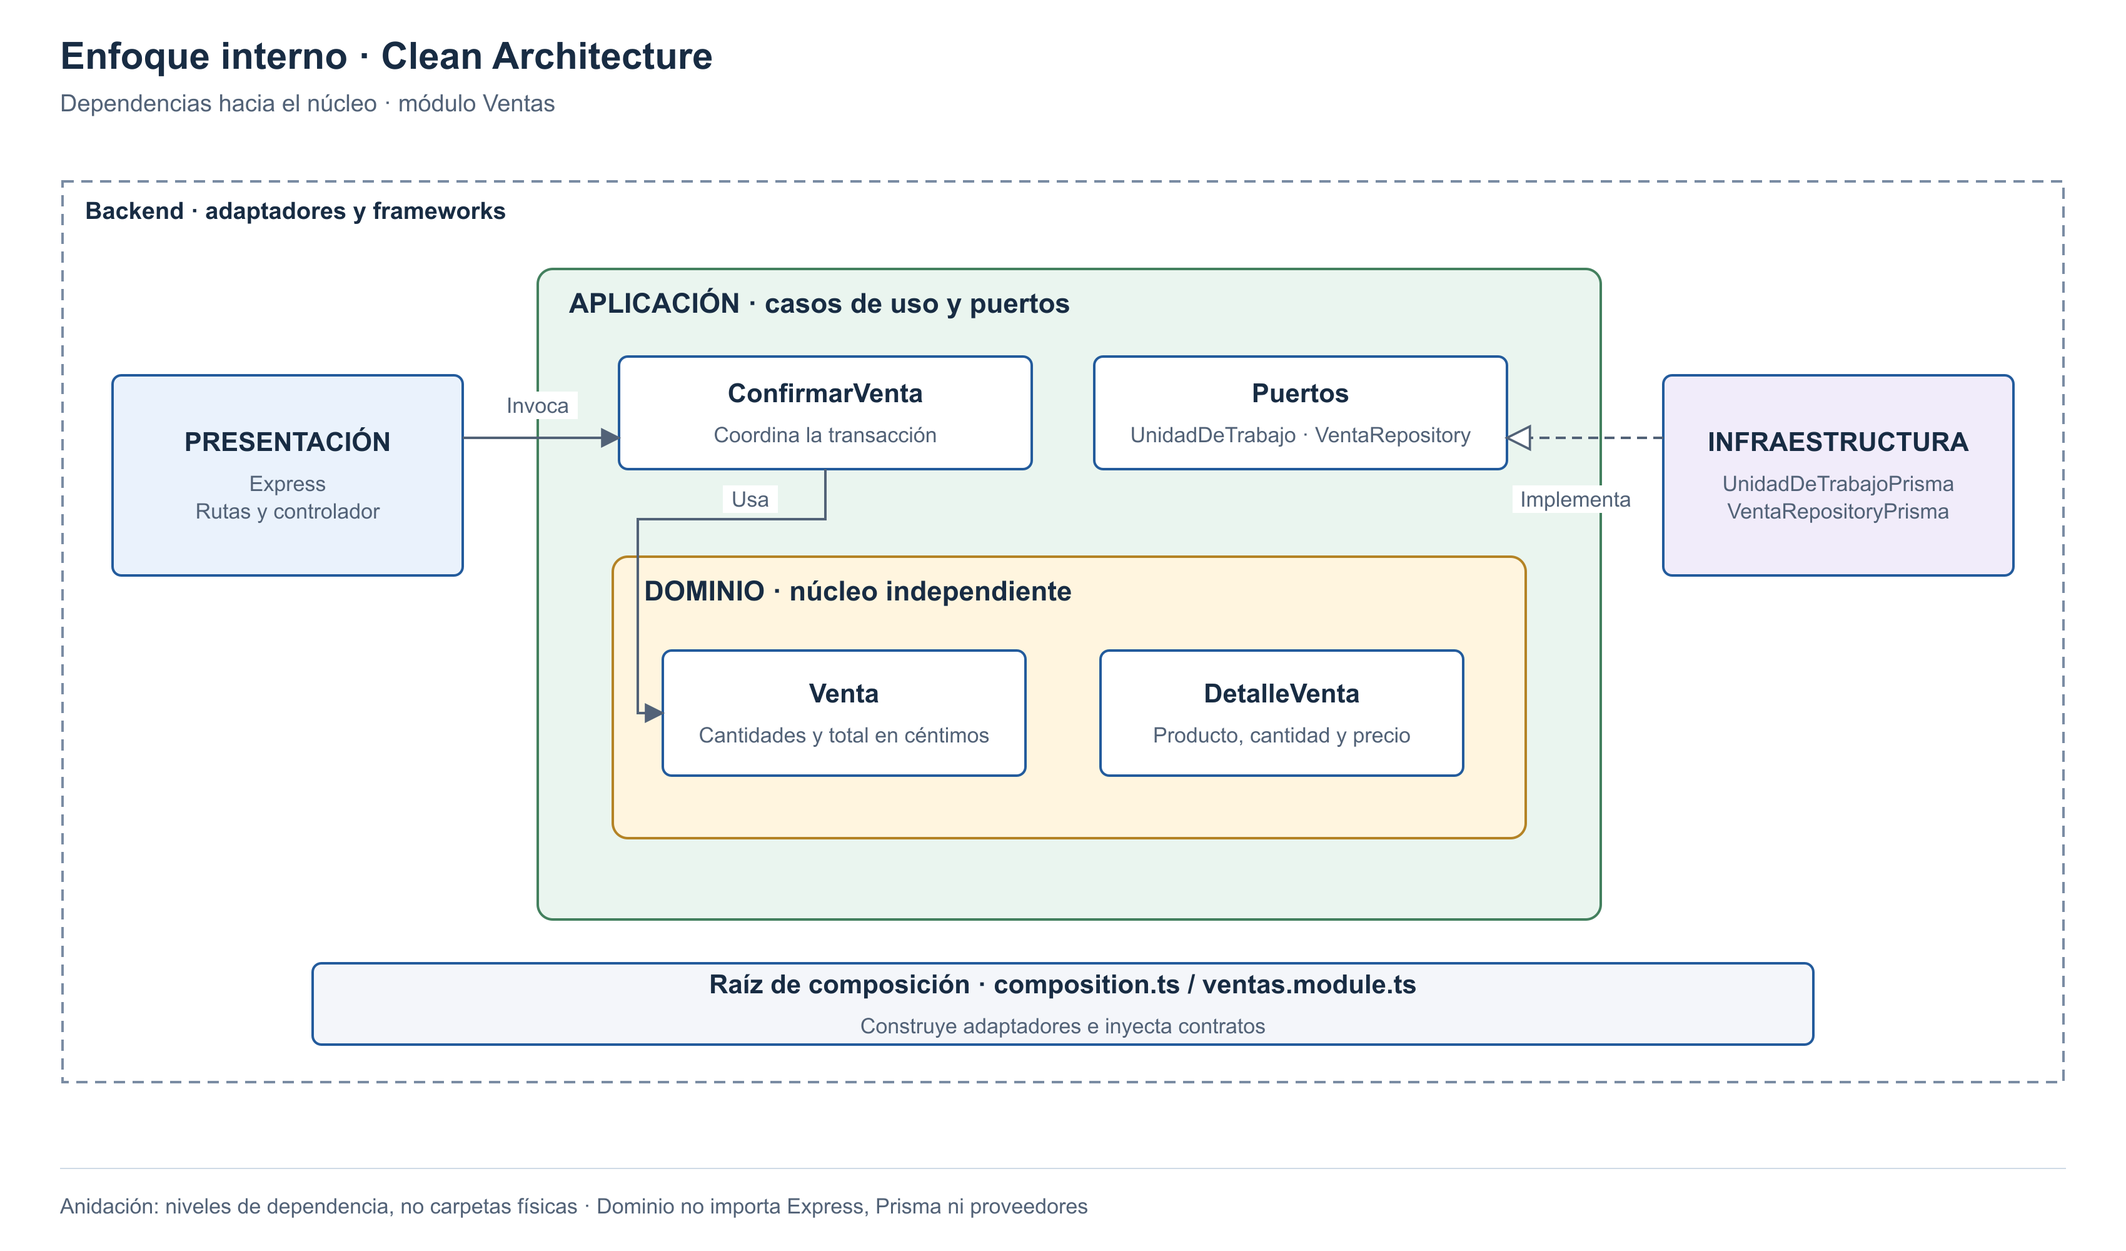
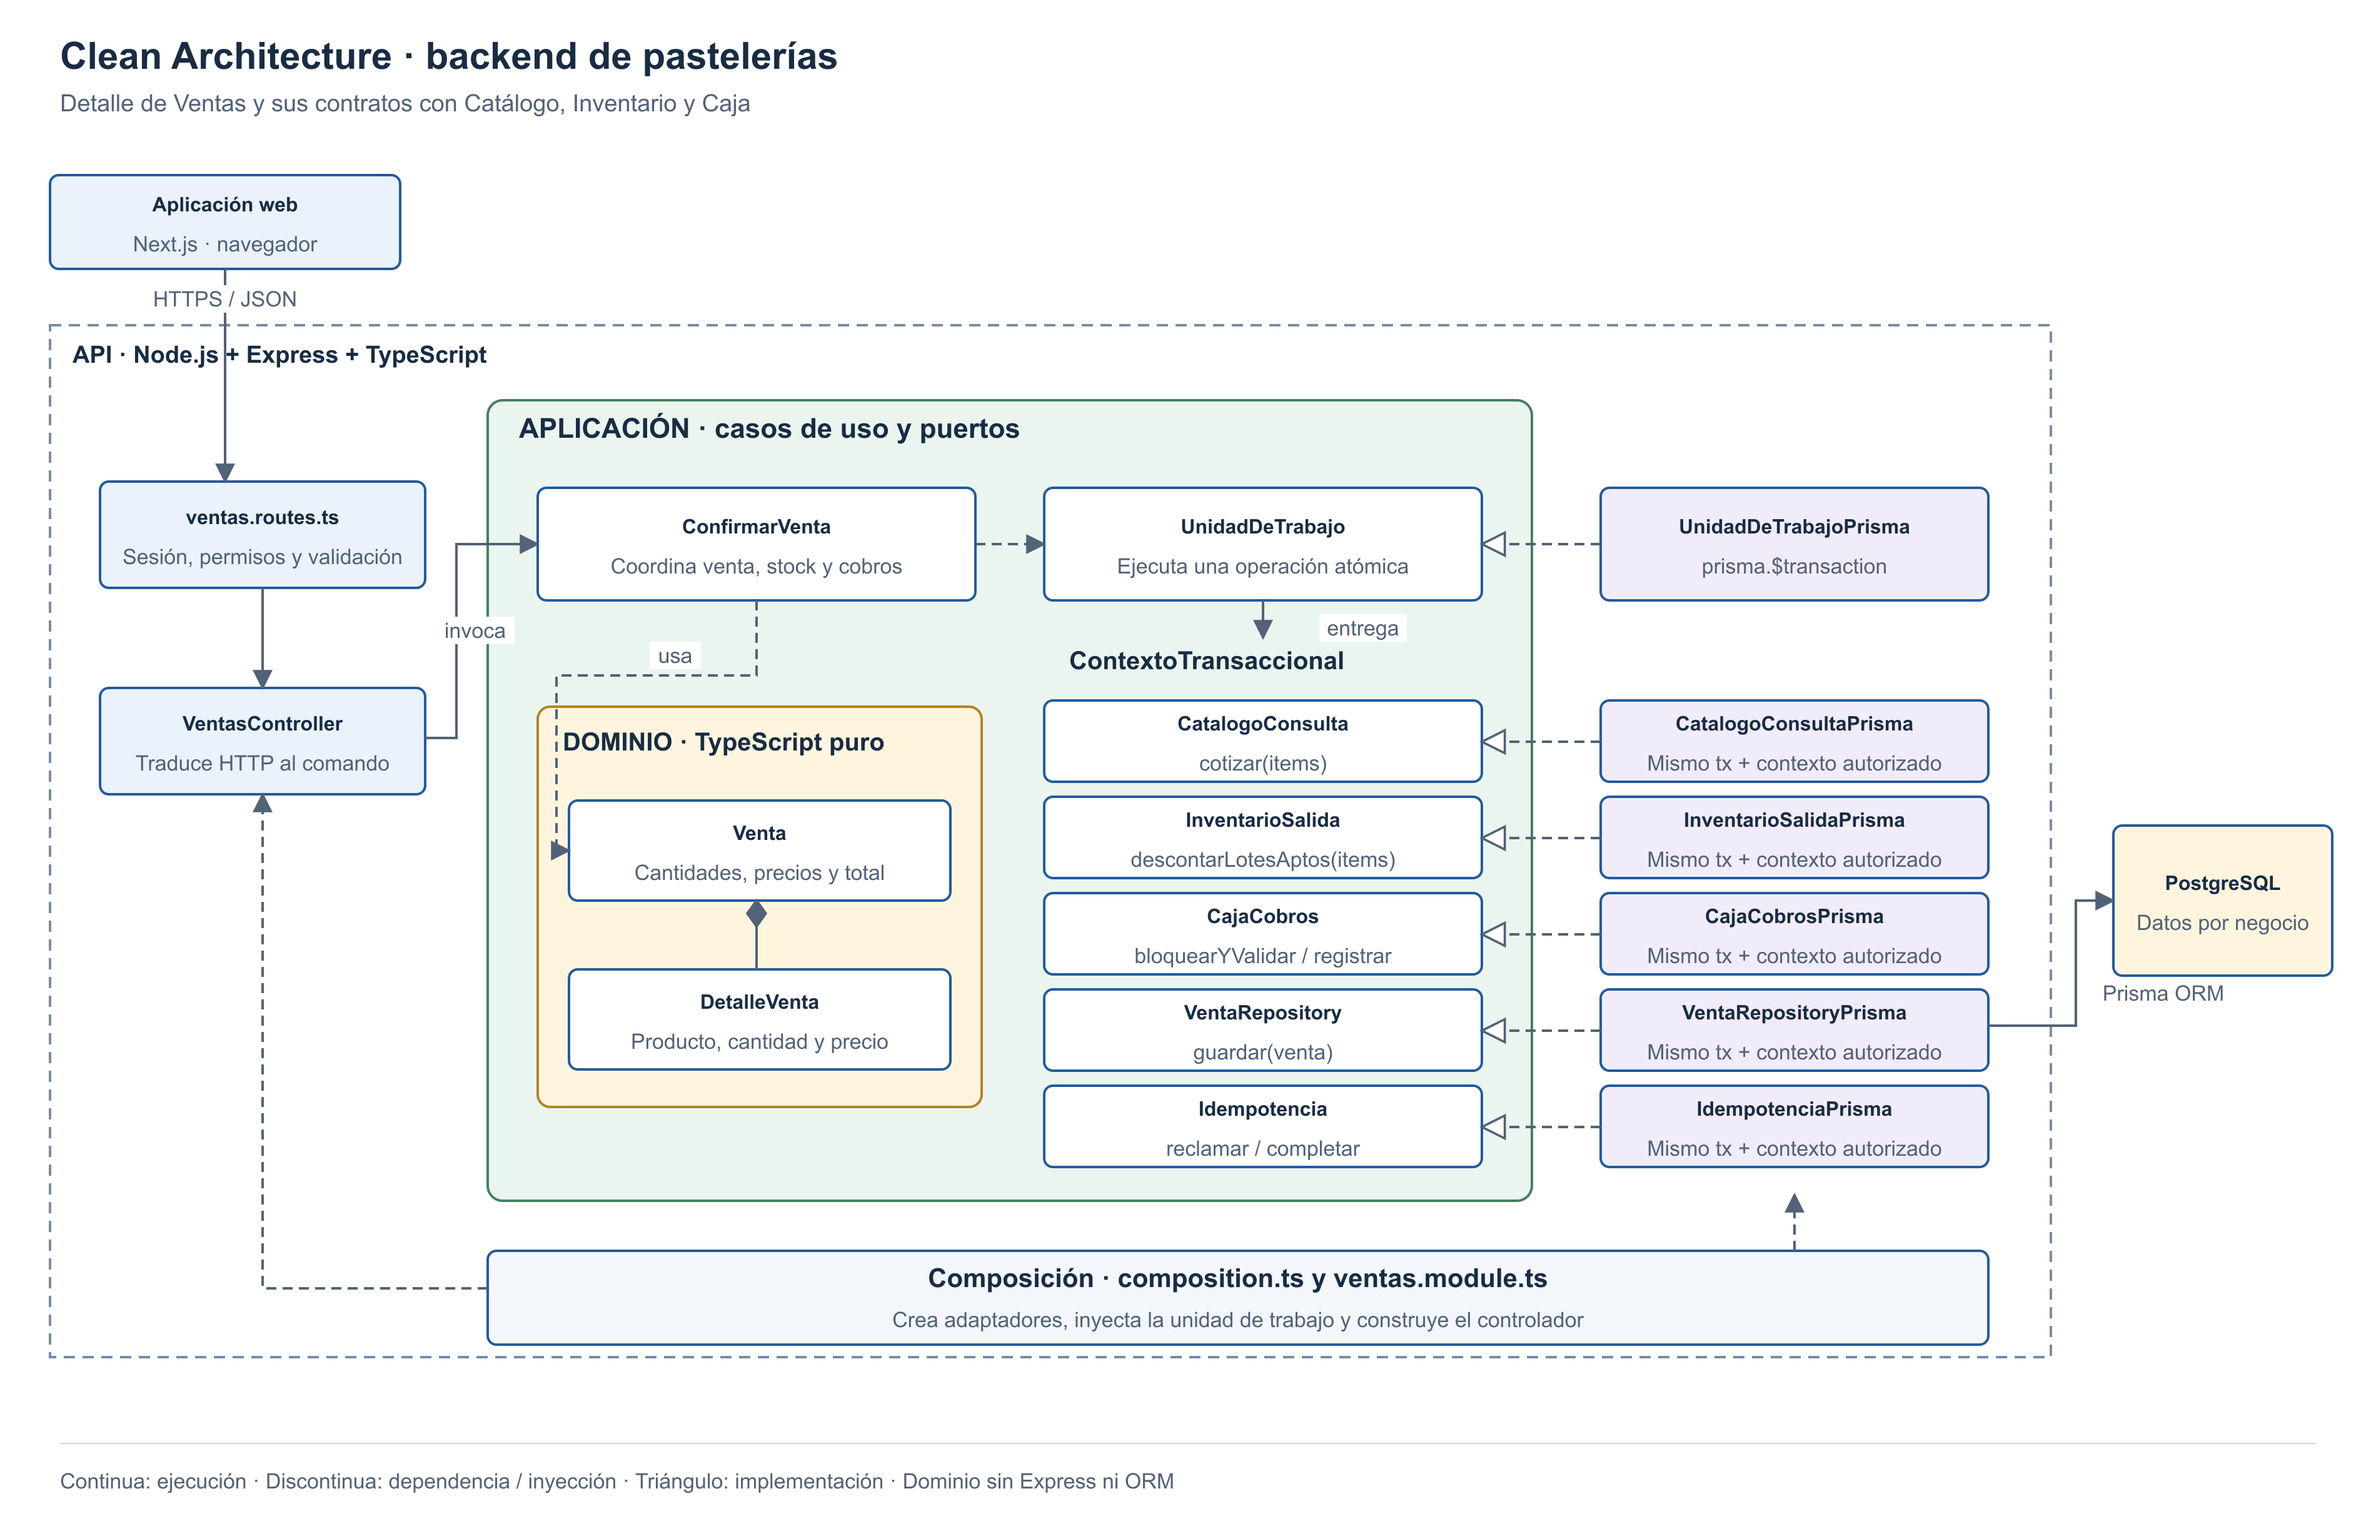
docs: mejorar diagramas arquitectonicos y ejemplos del modulo ventas

diff --git a/docs/03-diseño-de-software/diseño-interno/diseño-interno-de-modulos.md b/docs/03-diseño-de-software/diseño-interno/diseño-interno-de-modulos.md
@@ -8,39 +8,11 @@
 - Confirmar una venta junto con su stock y cobro.
 - Coordinar Catálogo, Inventario y Caja mediante contratos.
 
-## 2. Estructura prevista del proyecto
+## 2. Estructura de carpetas
 
-```text
-tecnologia/pasteleria-saas/
-├── apps/
-│   ├── web/                         Next.js + TypeScript + Tailwind CSS
-│   │   ├── src/app/                 Rutas: acceso, plataforma, administración, caja
-│   │   ├── src/features/            Catálogo, inventario, ventas, caja y reportes
-│   │   ├── src/components/          Formularios, tablas y componentes compartidos
-│   │   ├── src/lib/api/             Cliente HTTP, sesión y errores
-│   │   └── next.config.ts           Exportación estática; sin backend de negocio
-│   └── api/
-│       ├── src/app.ts               Middleware y rutas Express
-│       ├── src/server.ts            Arranque, salud y cierre de conexiones
-│       ├── src/composition.ts       Ensambla módulos y transacciones
-│       ├── src/shared/              Contexto autorizado, errores y transacciones
-│       └── src/modules/
-│           ├── plataforma/         Negocios, límites y sucursales
-│           ├── acceso/             Usuarios, permisos, turnos y sesiones
-│           ├── catalogo/           Productos, precios y fotografías
-│           ├── inventario/         Lotes, vencimientos, movimientos y traslados
-│           ├── ventas/             Confirmación y anulación
-│           ├── caja/               Sesiones, cobros, cierres y entregas
-│           └── reportes/           Consultas, historial y exportación XLSX
-├── database/                       Esquema Prisma, migraciones SQL/RLS y semillas
-├── tests/                          Integración, aislamiento, navegador y carga
-└── compose.yaml                    PostgreSQL local para desarrollo
-```
+**Un solo proyecto:** `tecnologia/pasteleria-saas/` contiene `apps/web/` (interfaz), `apps/api/` (backend) y `database/` (Prisma y migraciones).
 
-- Contratos públicos por módulo en `index.ts`.
-- Reportes lee proyecciones; no modifica datos operativos.
-
-### Módulo Ventas
+**Detalle del módulo Ventas dentro de ese backend:**
 
 ```text
 apps/api/src/modules/ventas/
@@ -102,15 +74,11 @@ apps/api/src/shared/transacciones/
 | 5 | Guardar venta, cobros, movimientos e historial. |
 | 6 | Confirmar todo o revertir; responder después del commit. |
 
-## 6. Código de referencia
+## 6. Código de referencia en TypeScript
 
-- **Caso desarrollado:** confirmar una venta; integra Catálogo, Inventario y Caja.
-- **Alcance del ejemplo:** clases y contratos de referencia, no el código completo del SaaS.
-- **Lectura:** abre cada archivo para consultar su código con sangría.
-- **Importes:** céntimos; se omiten imports y DTO completos.
+Ejemplo de confirmación de venta. Imports y adaptadores auxiliares omitidos; API transaccional de Prisma Client 7.
 
-<details>
-<summary>Dominio · detalle-venta.ts</summary>
+### Dominio · detalle-venta.ts
 
 ```ts
 type DetalleVenta = Readonly<{
@@ -120,11 +88,7 @@ type DetalleVenta = Readonly<{
 }>;
 ```
 
-</details>
-
-
-<details>
-<summary>Dominio · venta.ts</summary>
+### Dominio · venta.ts
 
 ```ts
 class Venta {
@@ -170,11 +134,7 @@ class Venta {
 }
 ```
 
-</details>
-
-
-<details>
-<summary>Aplicación · confirmar-venta.command.ts</summary>
+### Aplicación · confirmar-venta.command.ts
 
 ```ts
 type Item = Readonly<{
@@ -200,36 +160,46 @@ type Resultado = Readonly<{
 }>;
 ```
 
-</details>
-
-
-<details>
-<summary>Aplicación · puertos de colaboración</summary>
-
-Cada interfaz se define en su archivo y se expone mediante el contrato público de su módulo.
+### Aplicación · catalogo-consulta.ts
 
 ```ts
 // catalogo-consulta.ts
 interface CatalogoConsulta {
   cotizar(items: readonly Item[]): Promise<readonly DetalleVenta[]>;
 }
+```
 
+### Aplicación · inventario-salida.ts
+
+```ts
 // inventario-salida.ts
 interface InventarioSalida {
   descontarLotesAptos(items: readonly Item[]): Promise<void>;
 }
+```
 
+### Aplicación · caja-cobros.ts
+
+```ts
 // caja-cobros.ts
 interface CajaCobros {
   bloquearYValidar(sesionId: string): Promise<void>;
   registrar(ventaId: string, cobros: readonly Cobro[]): Promise<void>;
 }
+```
 
+### Aplicación · venta-repository.ts
+
+```ts
 // venta-repository.ts
 interface VentaRepository {
   guardar(venta: Venta): Promise<string>;
 }
+```
 
+### Aplicación · idempotencia.ts
+
+```ts
 // idempotencia.ts
 interface Idempotencia {
   reclamar(cmd: Comando): Promise<Resultado | null>;
@@ -237,11 +207,7 @@ interface Idempotencia {
 }
 ```
 
-</details>
-
-
-<details>
-<summary>Aplicación compartida · contexto-transaccional.ts</summary>
+### Aplicación compartida · contexto-transaccional.ts
 
 ```ts
 type ContextoAutorizado = Readonly<{
@@ -259,11 +225,7 @@ interface ContextoTransaccional {
 }
 ```
 
-</details>
-
-
-<details>
-<summary>Aplicación compartida · unidad-de-trabajo.ts</summary>
+### Aplicación compartida · unidad-de-trabajo.ts
 
 ```ts
 interface UnidadDeTrabajo {
@@ -274,11 +236,7 @@ interface UnidadDeTrabajo {
 }
 ```
 
-</details>
-
-
-<details>
-<summary>Aplicación · confirmar-venta.ts</summary>
+### Aplicación · confirmar-venta.ts
 
 ```ts
 class ConfirmarVenta {
@@ -334,22 +292,73 @@ class ConfirmarVenta {
 }
 ```
 
-</details>
+### Infraestructura · unidad-de-trabajo-prisma.ts
 
+```ts
+// shared/transacciones/unidad-de-trabajo-prisma.ts
+type CrearContexto = (
+  tx: Prisma.TransactionClient,
+  ctx: ContextoAutorizado
+) => ContextoTransaccional;
 
-### Infraestructura · contratos de implementación
+class UnidadDeTrabajoPrisma implements UnidadDeTrabajo {
+  constructor(
+    private readonly prisma: PrismaClient,
+    private readonly crearContexto: CrearContexto
+  ) {}
 
-| Archivo | Responsabilidad |
-|---|---|
-| `unidad-de-trabajo-prisma.ts` | Abrir `prisma.$transaction`, establecer tenant con SQL parametrizado y entregar el mismo `tx` a los adaptadores. |
-| `venta-repository-prisma.ts` | Guardar cabecera y detalles con precios históricos, dentro de ese `tx`. |
-| Adaptadores de Catálogo, Inventario y Caja | Cotizar con precios del servidor; descontar lotes aptos; guardar cobros y movimientos. |
-| Adaptador de Idempotencia | Clave única por negocio, usuario y operación; comparar la huella del comando completo. |
+  ejecutar<T>(
+    ctx: ContextoAutorizado,
+    operacion: (puertos: ContextoTransaccional) => Promise<T>
+  ): Promise<T> {
+    return this.prisma.$transaction(async (tx) => {
+      // Contexto de sesión verificado; valor parametrizado y local al tx.
+      await tx.$queryRaw`
+        SELECT set_config('app.tenant_id', ${ctx.tenantId}, true)
+      `;
 
-<details>
-<summary>Presentación · ventas.controller.ts</summary>
+      const puertos = this.crearContexto(tx, ctx);
+      return operacion(puertos);
+      // Prisma confirma al terminar; una excepción revierte la operación.
+    });
+  }
+}
+```
 
-Fragmento posterior a autenticación, autorización y validación de entrada.
+### Infraestructura · venta-repository-prisma.ts
+
+```ts
+// Ejemplo de mapeo; los nombres de campos corresponden al esquema previsto.
+class VentaRepositoryPrisma implements VentaRepository {
+  constructor(
+    private readonly tx: Prisma.TransactionClient,
+    private readonly ctx: ContextoAutorizado
+  ) {}
+
+  async guardar(venta: Venta): Promise<string> {
+    const registro = await this.tx.venta.create({
+      data: {
+        tenantId: this.ctx.tenantId,
+        sucursalId: this.ctx.sucursalId,
+        usuarioId: this.ctx.usuarioId,
+        totalCentimos: venta.totalCentimos(),
+        detalles: {
+          create: venta.detalles.map((detalle) => ({
+            tenantId: this.ctx.tenantId,
+            productoId: detalle.productoId,
+            cantidad: detalle.cantidad,
+            precioCentimos: detalle.precioCentimos
+          }))
+        }
+      }
+    });
+
+    return registro.id;
+  }
+}
+```
+
+### Presentación · ventas.controller.ts
 
 ```ts
 class VentasController {
@@ -367,11 +376,7 @@ class VentasController {
 }
 ```
 
-</details>
-
-
-<details>
-<summary>Composición · ventas.module.ts</summary>
+### Composición · ventas.module.ts
 
 ```ts
 function crearModuloVentas(uow: UnidadDeTrabajo) {
@@ -382,20 +387,47 @@ function crearModuloVentas(uow: UnidadDeTrabajo) {
 }
 ```
 
-</details>
+### Composición · composition.ts
 
+```ts
+// Los adaptadores auxiliares pertenecen a sus módulos respectivos.
+function crearContexto(
+  tx: Prisma.TransactionClient,
+  ctx: ContextoAutorizado
+): ContextoTransaccional {
+  return {
+    catalogo: new CatalogoConsultaPrisma(tx, ctx),
+    inventario: new InventarioSalidaPrisma(tx, ctx),
+    caja: new CajaCobrosPrisma(tx, ctx),
+    ventas: new VentaRepositoryPrisma(tx, ctx),
+    idempotencia: new IdempotenciaPrisma(tx, ctx)
+  };
+}
 
-| Punto de entrada | Responsabilidad |
-|---|---|
-| `ventas.routes.ts` | Enlazar `POST /api/v1/ventas` con autenticación, permisos, validación y controlador. |
-| `composition.ts` | Construir `UnidadDeTrabajoPrisma` y entregarla a `crearModuloVentas`. |
-| Middleware de errores | Traducir conflictos a 409; sesión ausente a 401 y permisos insuficientes a 403. |
+function componerVentas(prisma: PrismaClient) {
+  const uow = new UnidadDeTrabajoPrisma(prisma, crearContexto);
+  return crearModuloVentas(uow);
+}
+```
 
-## 7. Condiciones que se verifican
+### Presentación · ventas.routes.ts
 
-- Contexto autorizado obtenido de la sesión; nunca del cuerpo de la petición.
-- Un responsable de registro por sucursal; ventas simultáneas entre sucursales o negocios.
-- Sin stock negativo, lotes vencidos, cobros duplicados ni commits parciales.
-- Auditoría y movimientos forman parte de la misma transacción.
-- Efectivo recibido y vuelto: detalle funcional definido en RF10.
-- Pruebas con PostgreSQL: aislamiento, reintentos, rollback y cierre frente a venta.
+```ts
+// Middlewares definidos por Acceso y la validación de entrada.
+function crearRutasVentas(controller: VentasController) {
+  const router = Router();
+
+  router.post(
+    '/',
+    autenticarSesion,
+    autorizarVentaEnSucursal,
+    validarComandoVenta,
+    (req, res, next) => {
+      controller.confirmar(req, res).catch(next);
+    }
+  );
+
+  return router;
+}
+// app.use('/api/v1/ventas', crearRutasVentas(modulo.controller));
+```

diff --git a/docs/02-arquitectura-software/enfoque-aquitectonico.md b/docs/02-arquitectura-software/enfoque-aquitectonico.md
@@ -1,14 +1,18 @@
-Se utiliza el enfoque **Clean Architecture** para separar las reglas del negocio de la tecnología.
+# Enfoque arquitectónico
 
-| Elemento | Descripción aplicada a la plataforma de pastelerías |
-|---|---|
-| Patrón / enfoque arquitectónico | Clean Architecture (Arquitectura Limpia). |
-| Objetivo | Separar responsabilidades y dirigir las dependencias hacia el núcleo del negocio. |
-| ¿Qué problema resuelve? | Evita que las reglas de ventas, inventario y caja dependan de Next.js, Express, Prisma o el almacenamiento de imágenes. |
-| Capas definidas | Presentación, Aplicación, Dominio e Infraestructura. |
-| Beneficios | Facilita pruebas de reglas, delimita cambios y permite sustituir adaptadores sin modificar innecesariamente el dominio. |
+**Clean Architecture dentro del backend del monolito modular.**
 
-![Dependencias de Clean Architecture](../../img/clean-architecture.png)
-- El dominio ocupa el centro; Aplicación coordina sus reglas.
-- Los recuadros anidados representan niveles de dependencia, no carpetas contenidas físicamente.
-- Infraestructura implementa los puertos de Aplicación; composición conecta las implementaciones.
+![Clean Architecture aplicada a Ventas](../../img/clean-architecture.png)
+
+| Parte | Elementos del proyecto | Responsabilidad |
+|---|---|---|
+| Presentación | Rutas, validación y `VentasController` | Traducir HTTP a una operación autorizada. |
+| Aplicación | `ConfirmarVenta`, contratos y `UnidadDeTrabajo` | Coordinar venta, stock y cobros. |
+| Dominio | `Venta`, `DetalleVenta` | Validar cantidades, precios y total. |
+| Infraestructura | Adaptadores de módulos y Prisma ORM | Implementar contratos y persistir en PostgreSQL. |
+| Composición | `composition.ts`, `ventas.module.ts` | Crear adaptadores e inyectarlos en los casos de uso. |
+
+- El dominio no importa Express, Prisma ni proveedores.
+- Los puertos están en Aplicación porque expresan necesidades de los casos de uso.
+- La anidación representa niveles de dependencia; las carpetas son hermanas.
+- El mismo esquema se aplica a los demás módulos; Ventas muestra una colaboración completa.

diff --git a/docs/02-arquitectura-software/estilo-arquitectonico.md b/docs/02-arquitectura-software/estilo-arquitectonico.md
@@ -10,6 +10,7 @@ Se utiliza **monolito modular por capas**, con una API REST Node.js + Express y 
 | Modularidad | Cada módulo es dueño de sus reglas y escrituras; expone contratos explícitos. |
 | Capas | Presentación HTTP, casos de uso, dominio y adaptadores técnicos. |
 | Comunicación | Llamadas internas; no HTTP entre módulos del mismo proceso. |
+| Acceso a datos | Prisma ORM y SQL parametrizado, utilizados por adaptadores de cada módulo. |
 | Consistencia | Venta, stock y caja comparten conexión y transacción mediante Unit of Work. |
 | Escalamiento inicial | Optimizar índices, paginación y recursos; después ampliar instancias si las mediciones lo justifican. |
 | Costo | Un cambio exige desplegar el backend completo. Los límites modulares requieren revisiones y pruebas. |
